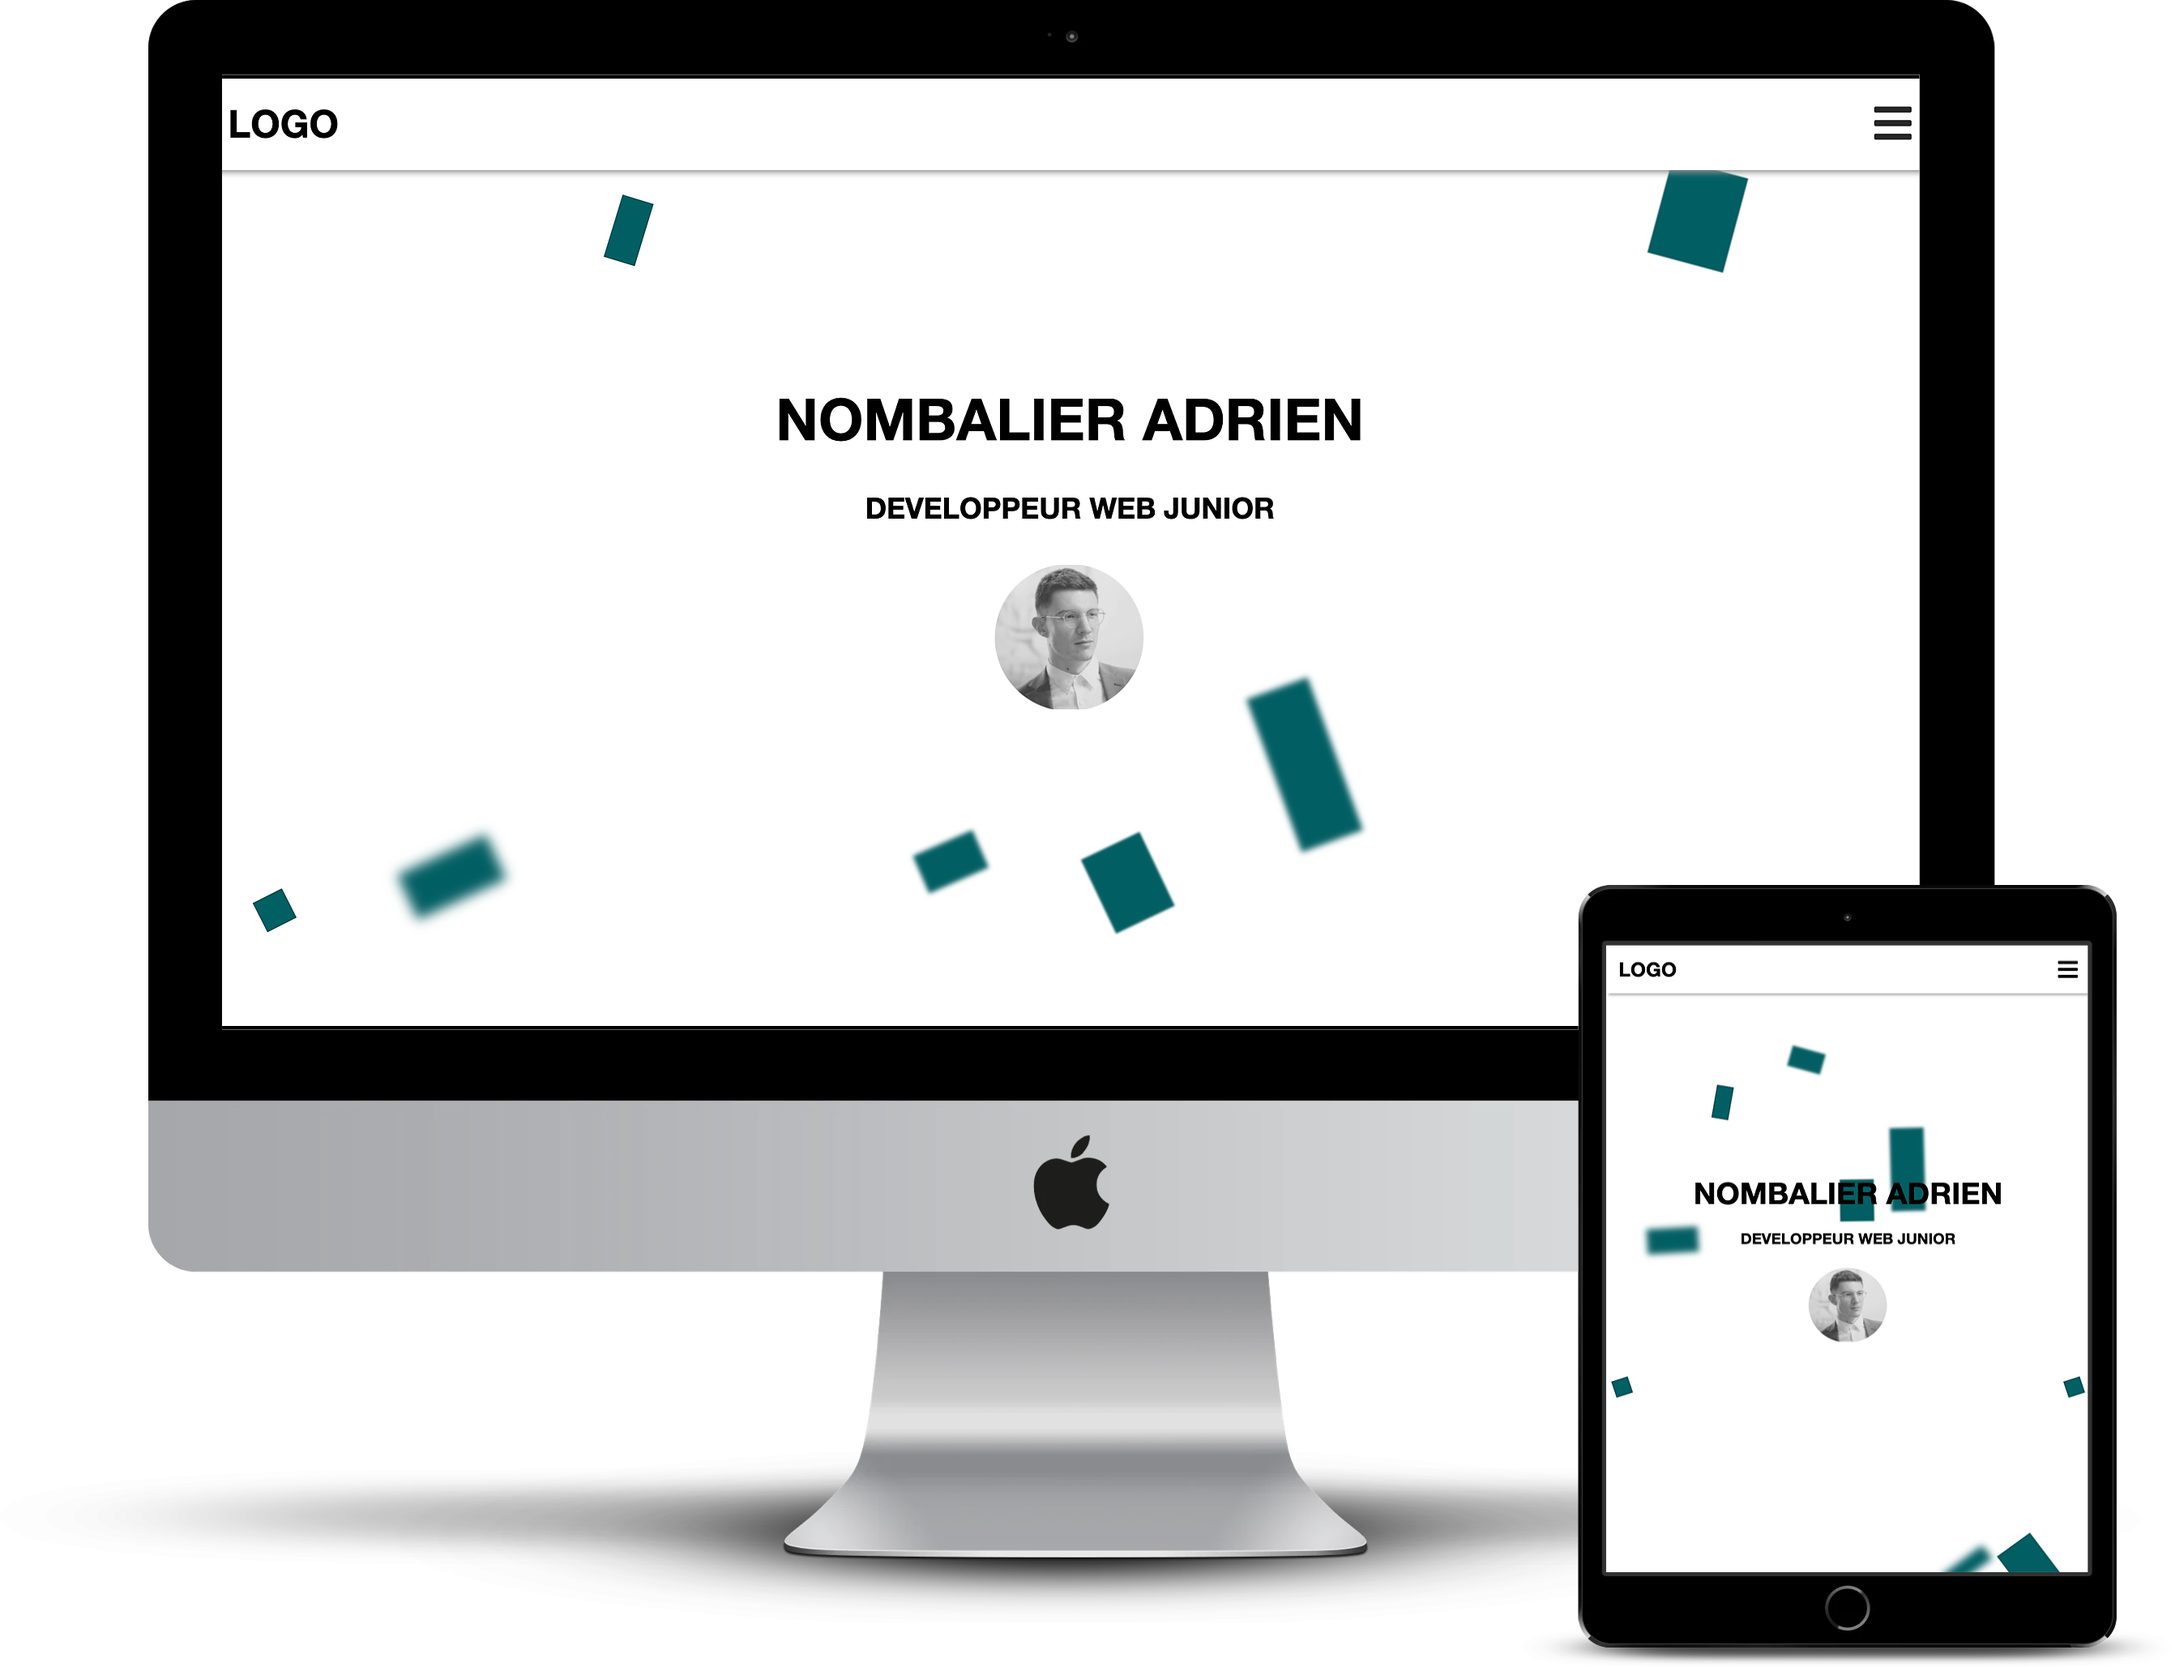
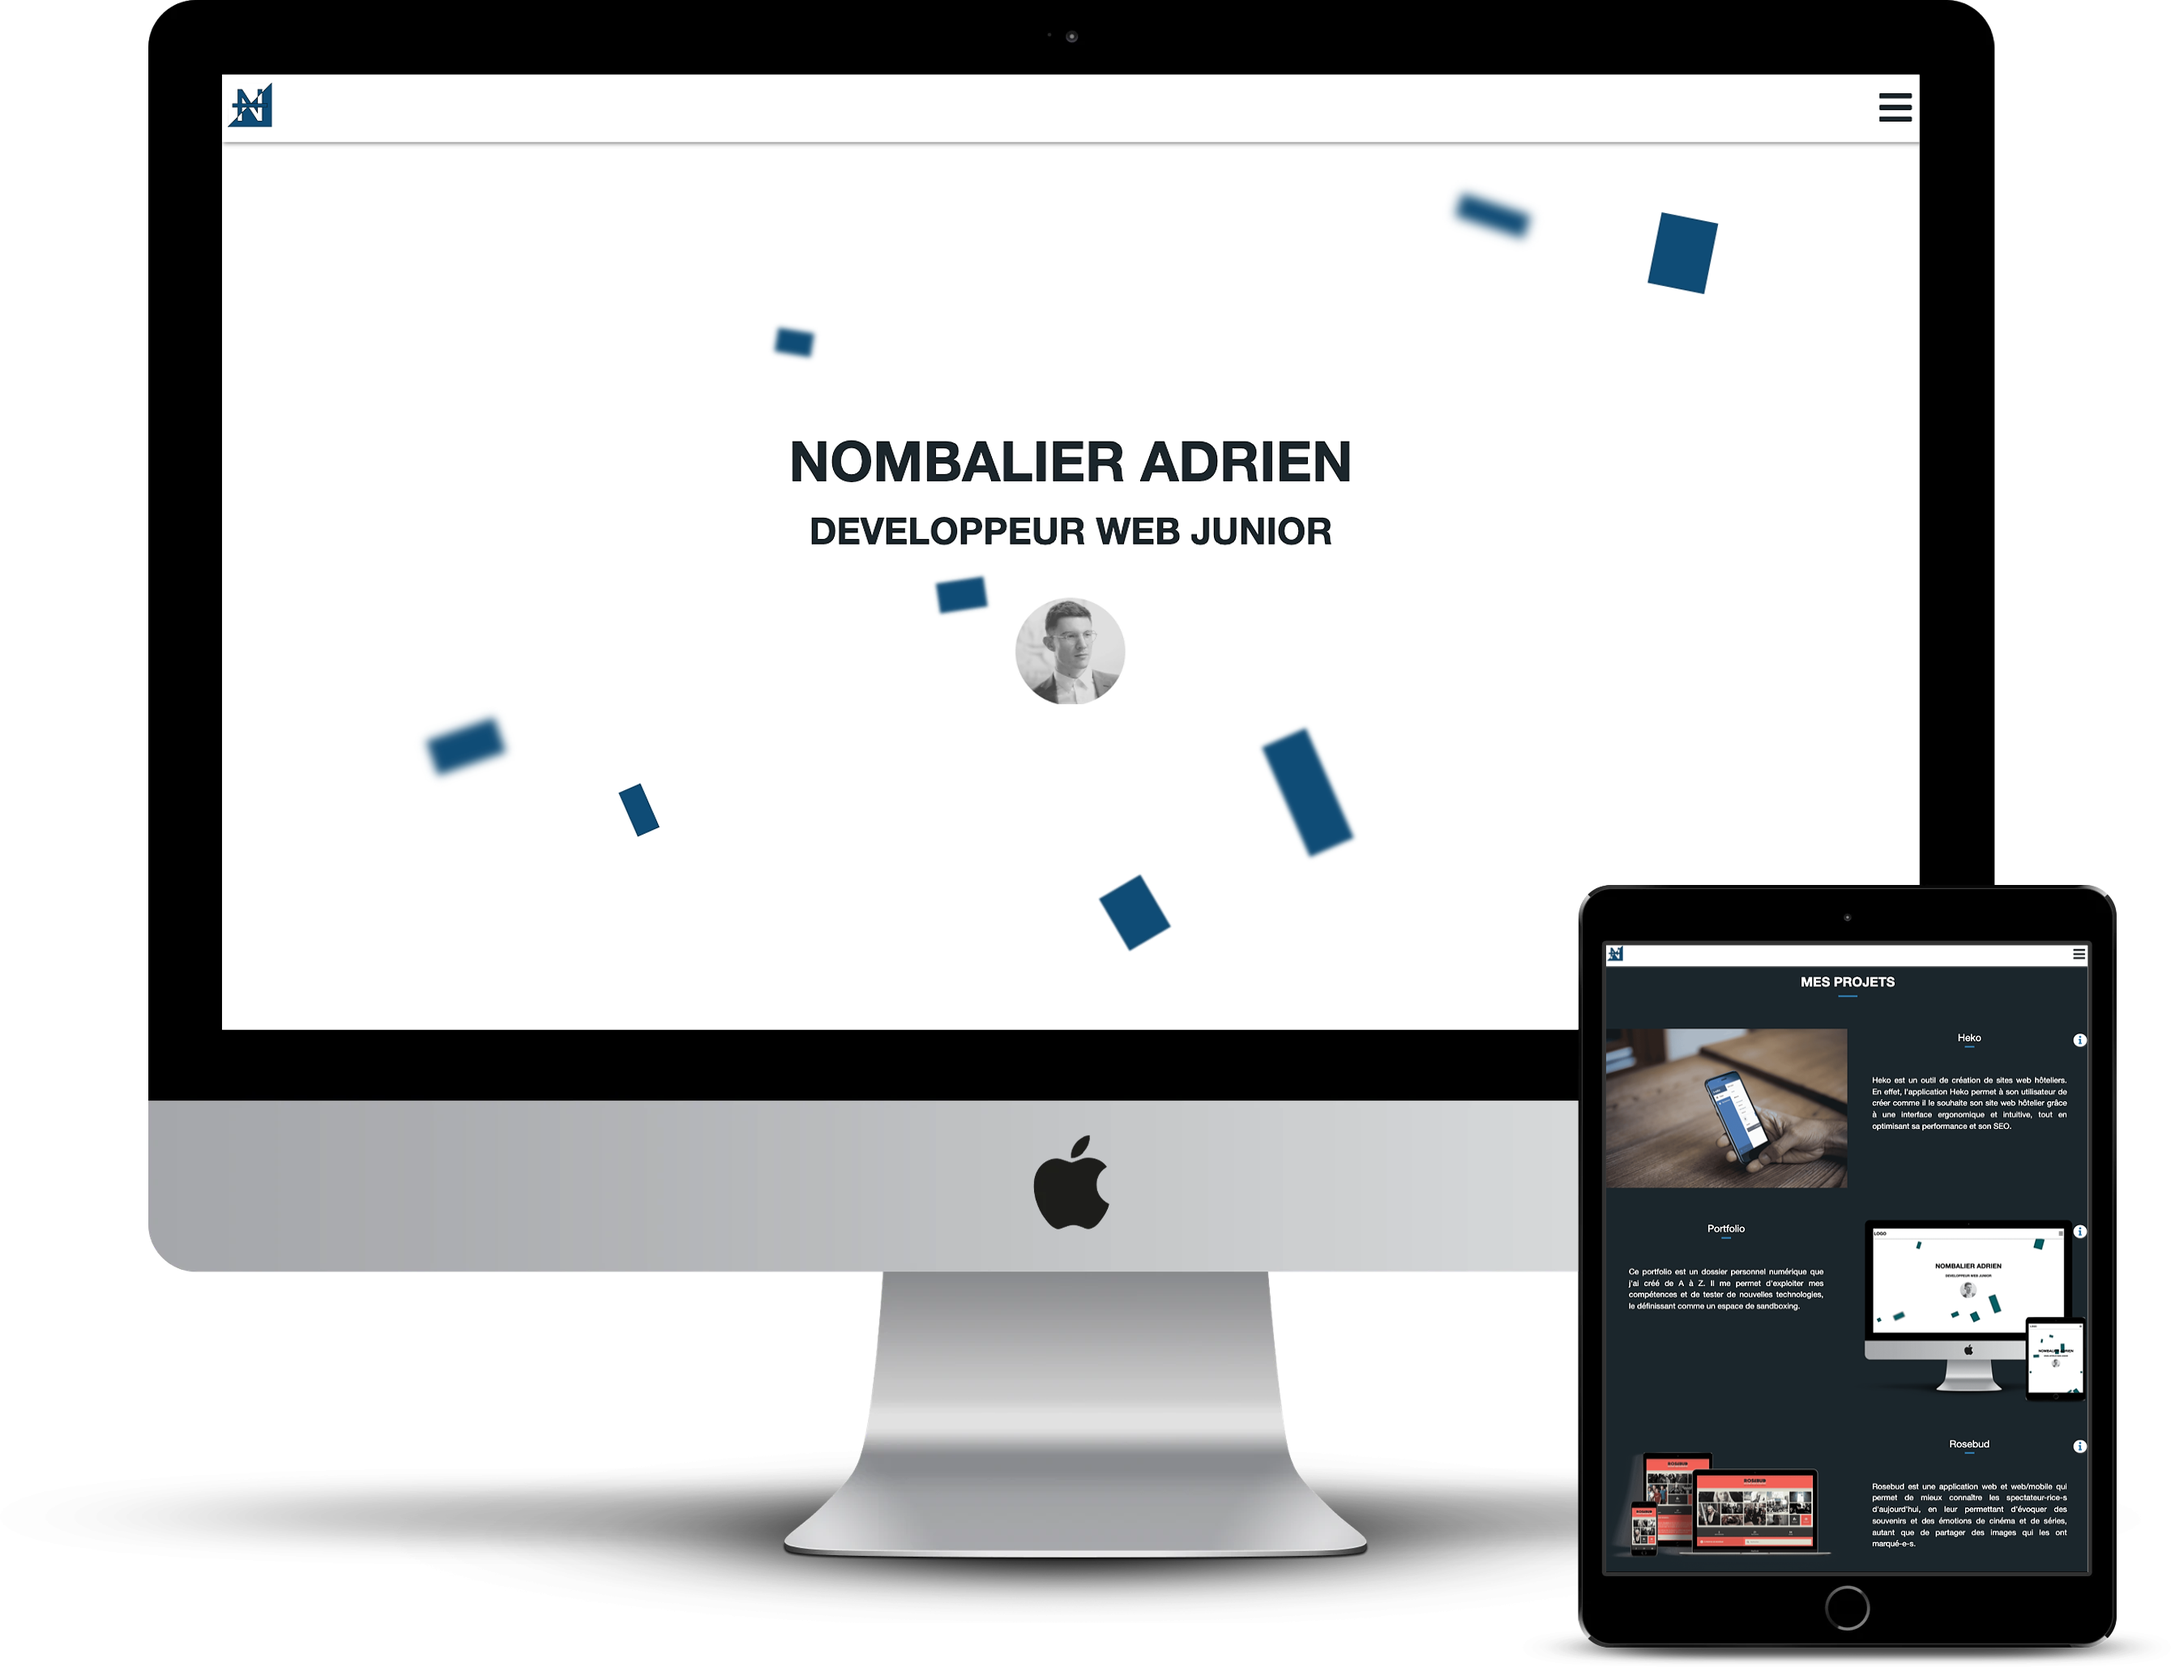
refactor and add wild space odyssey + change mock portfolio

diff --git a/src/components/MyProjects.js b/src/components/MyProjects.js
@@ -11,7 +11,7 @@ const MyProject = () => {
   const projects = useStaticQuery(
     graphql`
       query {
-        allMarkdownRemark(sort: {fields: frontmatter___title}) {
+        allMarkdownRemark(sort: { fields: frontmatter___title }) {
           edges {
             node {
               frontmatter {
@@ -22,12 +22,12 @@ const MyProject = () => {
                 toolsFront
                 toolsBack
                 webservice
-                url_github
+                visiter
               }
             }
           }
         }
-        allImageSharp(sort: {fields: fluid___originalName}) {
+        allImageSharp(sort: { fields: fluid___originalName }) {
           nodes {
             fluid(pngQuality: 10, maxWidth: 800) {
               ...GatsbyImageSharpFluid
@@ -43,35 +43,36 @@ const MyProject = () => {
     <section>
       <h1 id="projects">Mes projets</h1>
       {projects.allMarkdownRemark.edges.map((project, index) => (
-      <div
-        className="project"
-        key={index}
-        data-aos={project.node.frontmatter.id % 2 === 0 ? "fade-right" : "fade-left"}
-        data-aos-duration="800"
-      >
-        <>
-           <div
+        <div
+          className="project"
+          key={index}
+          data-aos={
+            project.node.frontmatter.id % 2 === 0 ? "fade-right" : "fade-left"
+          }
+          data-aos-duration="800"
+        >
+          <>
+            <div
               className={
-                currentId === project.node.frontmatter.id ? "wrapper_open" : "wrapper_closed"
+                currentId === project.node.frontmatter.id
+                  ? "wrapper_open"
+                  : "wrapper_closed"
               }
             >
-                {<p>Outils front : {project.node.frontmatter.toolsFront}</p>}
-                {<p>Outils Back : {project.node.frontmatter.toolsBack}</p>}
-                {<p>Archirecture : {project.node.frontmatter.webservice}</p>}
-                {project.node.frontmatter?.url_github && (
-                  <p>
-                    Url/Repository :{" "}
-                    <a
-                      href={project.node.frontmatter.url}
-                      target="_blank"
-                      rel="noopener noreferrer"
-                    >
-                      {project.node.frontmatter.url}
-                    </a>
-                  </p>
-                )}
-            </div> 
-           <div className="buttons">
+              {<p>Outils front : {project.node.frontmatter.toolsFront}</p>}
+              {<p>Outils Back : {project.node.frontmatter.toolsBack}</p>}
+              {<p>Archirecture : {project.node.frontmatter.webservice}</p>}
+              {project.node.frontmatter?.visiter && (
+                <a
+                  href={project.node.frontmatter.visiter}
+                  target="_blank"
+                  rel="noopener noreferrer"
+                >
+                  Voir : {project.node.frontmatter.visiter}
+                </a>
+              )}
+            </div>
+            <div className="buttons">
               {currentId === project.node.frontmatter.id ? (
                 <button
                   className="more_button_moins"
@@ -87,23 +88,23 @@ const MyProject = () => {
                   <FontAwesomeIcon icon={faInfo} />
                 </button>
               )}
-            </div> 
-          <div className="image-container">
-            <div className="gatsby-image-wrapper">
-              <Img
-                  fluid={
-                    projects.allImageSharp.nodes[index].fluid
-                  }
+            </div>
+            <div className="image-container">
+              <div className="gatsby-image-wrapper">
+                <Img
+                  fluid={projects.allImageSharp.nodes[index].fluid}
                   alt={project.mockup}
                 />
+              </div>
             </div>
-          </div>
-          <div className="contents">
-            <p className="title">{project.node.frontmatter.title}</p>
-            <p className="description">{project.node.frontmatter.description}</p>
-          </div>
-        </>
-      </div>
+            <div className="contents">
+              <p className="title">{project.node.frontmatter.title}</p>
+              <p className="description">
+                {project.node.frontmatter.description}
+              </p>
+            </div>
+          </>
+        </div>
       ))}
     </section>
   )

diff --git a/src/styles/styles.scss b/src/styles/styles.scss
@@ -453,6 +453,7 @@ section {
       border-radius: 20px 0% 00% 20px;
       width: 90vw;
       height: auto;
+      padding-bottom: 5px;
 
       p,
       a {
@@ -740,6 +741,7 @@ section {
         width: 75vw;
         height: auto;
         white-space: nowrap;
+        padding-bottom: 5px;
         p,
         a {
           color: $background;

diff --git a/src/data/rosebud.md b/src/data/rosebud.md
@@ -1,10 +1,10 @@
 ---
 id: 3
 title: "Rosebud"
-description: "Rosebud est une application web et web/mobile qui permet de mieux connaître les spectateur-rice-s d'aujourd'hui, en leurs permettant d'évoquer des souvenirs et des émotions de cinéma et de séries, autant que de partager des images qui les ont marqué-e-s."
+description: "Rosebud est une application web et web/mobile qui permet de mieux connaître les spectateur-rice-s d'aujourd'hui, en leur permettant d'évoquer des souvenirs et des émotions de cinéma et de séries, autant que de partager des images qui les ont marqué-e-s."
 mockup: 'rosebud.png'
-toolsFront: 'HTML5, CSS3,  ReactJS, JavaScript'
-toolsBack: 'NodeJS, SQL'
+toolsFront: 'HTML5, CSS3, ReactJS, JavaScript'
+toolsBack: 'NodeJS, SQL, Sequelize, Docker'
 webservice: 'REST'
-url/github: 'https://www.rosebud.website/'
+visiter: https://www.rosebud.website/
 ---

diff --git a/src/data/heko.md b/src/data/heko.md
@@ -3,8 +3,8 @@ id: 1
 title: "Heko"
 description: "Heko est un outil de création de sites web hôteliers. En effet, l'application Heko permet à son utilisateur de créer comme il le souhaite son site web hôtelier grâce à une interface ergonomique et intuitive, tout en optimisant sa performance et son SEO."
 mockup: 'heko.png'
-toolsFront: 'HTML5, CSS3,  ReactJS, JavaScript'
-toolsBack: 'NodeJS, NoSQL'
+toolsFront: 'HTML5, CSS3, JavaScript, ReactJS, Redux'
+toolsBack: 'NodeJS, NoSQL, Fastify, Docker'
 webservice: 'REST'
-url/github: ''
+visiter: in progress
 ---

diff --git a/src/data/portfolio.md b/src/data/portfolio.md
@@ -4,7 +4,7 @@ title: "Portfolio"
 description: "Ce portfolio est un dossier personnel numérique que j'ai créé de A à Z. Il me permet d'exploiter mes compétences et de tester de nouvelles technologies, le définissant comme un espace de sandboxing."
 mockup: 'portfolio.png'
 toolsFront: 'HTML5, SCSS,  GatsbyJS, JavaScript'
-toolsBack: 'NodeJS, NoSQL'
+toolsBack: 'NodeJS, NoSQL, Docker, Apollo'
 webservice: 'GraphQl'
-url/github: 'https://github.com/lefernix/Portfolio-front'
+visiter: https://github.com/lefernix/Portfolio-front
 ---

diff --git a/src/data/wgs.md b/src/data/wgs.md
@@ -6,5 +6,5 @@ mockup: 'wildgreenschool.png'
 toolsFront: 'HTML5, CSS3, JavaScript Native'
 toolsBack: ''
 webservice: ''
-url/github: 'https://github.com/FPaurisse/wild-green-school/tree/dev'
+visiter: https://github.com/FPaurisse/wild-green-school/tree/dev
 ---
